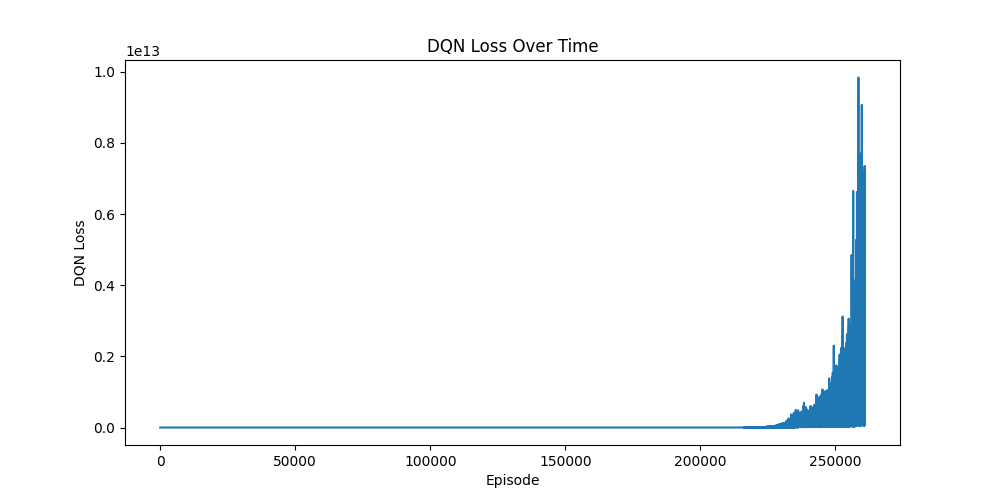
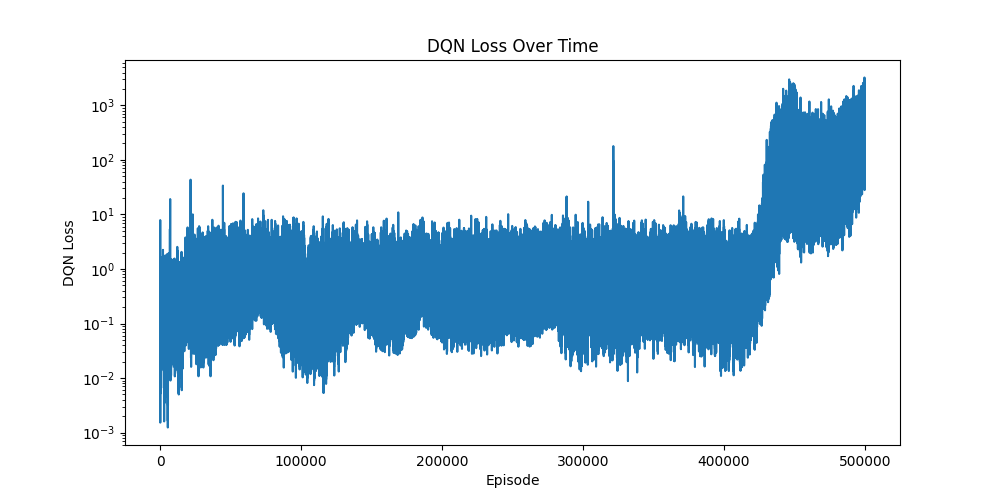
updated hyperparameters

diff --git a/src/controllers/nn_controllers/faction_net.py b/src/controllers/nn_controllers/faction_net.py
@@ -46,7 +46,7 @@ class DQNAgent:
         self.gamma = 0.95  # Discount factor
         self.epsilon = 1.0  # Exploration rate
         self.epsilon_min = 0.01
-        self.epsilon_decay = 0.999
+        self.epsilon_decay = 0.995
         self.batch_size = 64
         self.device = torch.device(
             "cuda" if torch.cuda.is_available() else "cpu")
@@ -69,6 +69,7 @@ class DQNAgent:
         plt.xlabel("Episode")
         plt.ylabel("DQN Loss")
         plt.title("DQN Loss Over Time")
+        plt.yscale('log')
         plt.savefig("dqn_loss.png")
         plt.close()
 
@@ -181,7 +182,7 @@ class DQNAgent:
         q_eval = self.policy_net.forward(
             state_batch)[batch_index, action_batch]
         q_next = self.policy_net.forward(new_state_batch)
-        q_next[terminal_batch] = 0.0
+        # q_next[terminal_batch] = 0.0
 
         with torch.no_grad():
             max_next_q_values = self.target_net(new_state_batch).max(1)[0]

diff --git a/src/main.py b/src/main.py
@@ -79,7 +79,7 @@ if __name__ == "__main__":
         for i in range(RUN_COUNT):
             original_print(f"RUN: {i+1}")
 
-            # Initialize factions0
+            # Initialize factions
             marquise = Marquise(MarquiseNNController(marquise_net))
             # marquise = Marquise(MarquisePlayerController())
             # marquise = Marquise(MarquiseRandomController())
@@ -113,6 +113,10 @@ if __name__ == "__main__":
                 torch.save(marquise_net.policy_net.state_dict(),
                            CHECKPOINT_FILE)
                 original_print(f"💾 Model checkpoint saved at {i+1} runs.")
+
+            if (i + 1) % 5000 == 0:
+                marquise_net.epsilon = 1.0
+
     except KeyboardInterrupt:
         pass
     finally:
